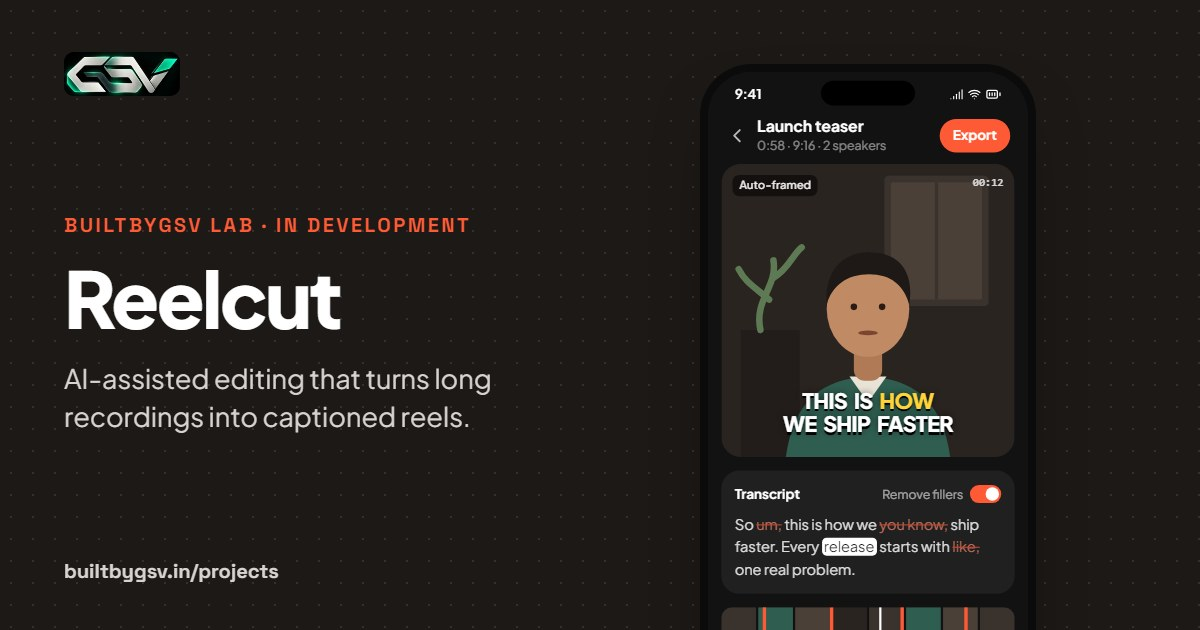
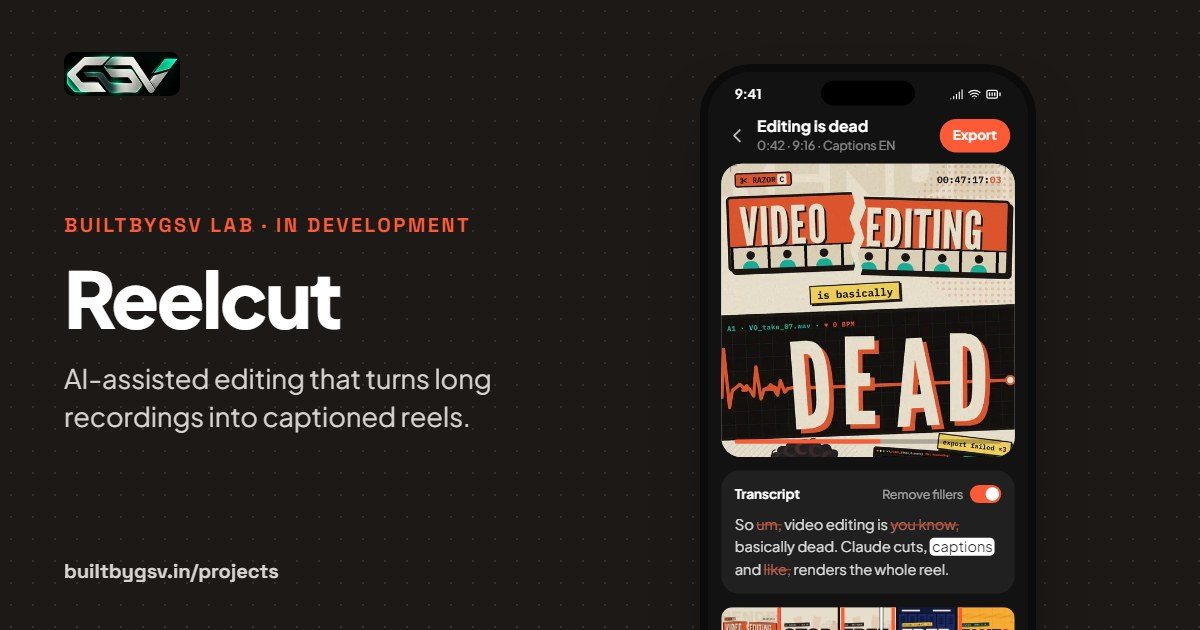
Make the tour cover a live wall of real work and show real reels in Reelcut
- Tour intro becomes a cover: three drifting columns of project screens and
  BuiltbyGSV reel covers, then the headline, real counts from the project
  data (products, client builds, live sites) and a scrolling stack line
- "How I can help" moves to a deep teal slide with a 2x2 tile grid so it no
  longer mirrors the intro
- Reelcut preview plays the studio's own "Editing is dead" reel with a
  matching transcript and a filmstrip of five reel covers
- Keep the header and intro text legible over the collage on short phones

Changed region(s): [[0.5858, 0.181, 0.8633, 0.7238], [0.6167, 0.8143, 0.8325, 0.9349], [0.5858, 0.9651, 0.8633, 1.0]]

diff --git a/src/components/TourPage.tsx b/src/components/TourPage.tsx
@@ -2,7 +2,7 @@ import { useCallback, useEffect, useRef, useState, type PointerEvent as ReactPoi
 import { AnimatePresence, motion, useAnimationFrame, useMotionValue, useReducedMotion } from 'motion/react';
 import { ArrowRight, ArrowUpRight, Linkedin, MessageCircle, Pause, Play, RotateCcw, UserPlus, X } from 'lucide-react';
 import { BrandLogo } from './BrandLogo';
-import { ConceptCover } from './visuals/ConceptScreens';
+import { CONCEPT_SCREENS, ConceptCover, REEL_COVERS } from './visuals/ConceptScreens';
 import { PROJECTS } from '../data/mockData';
 import { CAPABILITIES, WORK_SUMMARIES } from '../data/studio';
 import { projectMedia, projectTheme } from '../data/projectMedia';
@@ -26,8 +26,9 @@ const SLIDES: Slide[] = [
 
 const whatsapp = `https://wa.me/${brandEntity.phone.replace(/\D/g, '')}?text=${encodeURIComponent('Hi Guru, we met at DevDay!')}`;
 const PAPER = '#F4F1EA';
-const slideBg = (slide: Slide) => slide.kind === 'project' ? projectTheme(slide.id).bg : slide.kind === 'contact' ? '#131921' : PAPER;
-const slideDark = (slide: Slide) => slide.kind === 'project' ? Boolean(projectTheme(slide.id).dark) : slide.kind === 'contact';
+const TEAL = '#0C6E5D';
+const slideBg = (slide: Slide) => slide.kind === 'project' ? projectTheme(slide.id).bg : slide.kind === 'contact' ? '#131921' : slide.kind === 'services' ? TEAL : PAPER;
+const slideDark = (slide: Slide) => slide.kind === 'project' ? Boolean(projectTheme(slide.id).dark) : slide.kind === 'contact' || slide.kind === 'services';
 
 const item = (delay: number) => ({
   initial: { opacity: 0, y: 18 },
@@ -110,7 +111,7 @@ export function TourPage() {
         onPointerDown={down} onPointerUp={up} onPointerCancel={() => { press.current = null; setPaused(false); }}
         onContextMenu={(event) => event.preventDefault()}>
 
-        <div className="absolute inset-x-0 top-0 z-30 px-3 pt-[max(0.75rem,env(safe-area-inset-top))]">
+        <div className={`absolute inset-x-0 top-0 z-30 px-3 pt-[max(0.75rem,env(safe-area-inset-top))] transition-[padding] ${slide.kind === 'intro' ? 'bg-gradient-to-b from-[#F4F1EA] from-70% to-transparent pb-5' : ''}`}>
           <div className="flex gap-1">
             {SLIDES.map((_, i) => (
               <span key={i} className={`relative h-[3px] flex-1 overflow-hidden rounded-full ${dark ? 'bg-white/25' : 'bg-black/15'}`}>
@@ -120,7 +121,7 @@ export function TourPage() {
             ))}
           </div>
           <div className="mt-3 flex items-center justify-between">
-            <BrandLogo nameClassName={dark ? 'text-xs !text-white' : 'text-xs'} />
+            <BrandLogo nameClassName={slide.kind === 'services' ? 'text-xs !text-white [&_span]:!text-[#F5C748]' : dark ? 'text-xs !text-white' : 'text-xs'} />
             <div className="flex items-center gap-1">
               <span className={`mr-1 font-mono text-[11px] font-bold ${dark ? 'text-white/60' : 'text-[#64748B]'}`}>{paused && !last ? 'Paused' : `${String(index + 1).padStart(2, '0')}/${SLIDES.length}`}</span>
               <button type="button" onClick={() => setPaused((value) => !value)} aria-label={paused ? 'Play' : 'Pause'}
@@ -157,33 +158,79 @@ function close() {
   else window.location.href = '/devday';
 }
 
+type CollageTile = { id: string; src?: string };
+const COLLAGE: CollageTile[] = PROJECTS.flatMap((project): CollageTile[] => {
+  if (CONCEPT_SCREENS[project.id]) return [{ id: project.id }];
+  const media = projectMedia[project.id];
+  const src = media?.thumb ?? media?.hero;
+  return src ? [{ id: project.id, src }] : [];
+}).flatMap((tile, i) => (REEL_COVERS[i] ? [tile, { id: 'reelcut-ai-video-editor', src: REEL_COVERS[i] }] : [tile]));
+const COLUMNS = [0, 1, 2].map((column) => COLLAGE.filter((_, i) => i % 3 === column));
+const STATS = [
+  { value: PROJECTS.length, label: 'products built' },
+  { value: PROJECTS.filter((project) => project.detailData?.engagement === 'Client Work').length, label: 'client builds' },
+  { value: PROJECTS.filter((project) => project.detailData?.liveUrl).length, label: 'live right now' },
+];
+const STACK = ['React', 'TypeScript', 'Supabase', 'PostgreSQL', 'Three.js', 'MediaPipe', 'Python', 'FFmpeg', 'Whisper', 'Capacitor', 'Tailwind CSS', 'Web Workers'];
+
+function CollageColumn({ tiles, duration, reverse }: { tiles: CollageTile[]; duration: number; reverse?: boolean }) {
+  return (
+    <div className="flex-1 overflow-hidden">
+      <div className={`collage-col flex flex-col gap-3 ${reverse ? 'collage-reverse' : ''}`} style={{ animationDuration: `${duration}s` }}>
+        {[...tiles, ...tiles].map((tile, i) => {
+          const theme = projectTheme(tile.id);
+          return (
+            <div key={`${tile.id}-${i}`} className={`relative overflow-hidden rounded-2xl ${i % 2 ? 'aspect-square' : 'aspect-[4/5]'}`} style={{ backgroundColor: theme.bg }}>
+              {tile.src
+                ? <img src={tile.src} alt="" className="h-full w-full object-cover object-top" draggable={false} />
+                : <ConceptCover projectId={tile.id} peek={0.5} className="h-full w-full" />}
+            </div>
+          );
+        })}
+      </div>
+    </div>
+  );
+}
+
 function IntroSlide() {
   return (
-    <div className="flex flex-1 flex-col text-[#131921]">
-      <motion.p {...item(0.05)} className="font-mono text-[11px] font-bold uppercase tracking-[0.18em] text-[#0F8B75]">BuiltbyGSV · Puducherry, India</motion.p>
-      <motion.h1 {...item(0.12)} className="mt-5 text-[2.6rem] font-extrabold leading-[1.04] tracking-tight [@media(max-height:700px)]:text-[2.2rem]">
-        I’m Guru.<br />I build{' '}
-        <span className="relative inline-block font-serif font-normal italic text-[#0F8B75]">
-          software
-          <DrawnUnderline className="-bottom-1.5 h-3.5" delay={0.6} />
-        </span>
-        <br />that ships.
-      </motion.h1>
-      <motion.p {...item(0.22)} className="mt-5 max-w-sm text-[15px] leading-7 text-[#475569]">
-        Founder of BuiltbyGSV. I design and engineer web platforms, business software and AI products, from the first sketch to production.
-      </motion.p>
-      <ol className="mt-auto border-t border-[#131921]/15">
-        {CAPABILITIES.map((capability, i) => (
-          <motion.li key={capability.id} {...item(0.32 + i * 0.07)} className="flex items-baseline gap-4 border-b border-[#131921]/15 py-3">
-            <span className="font-mono text-xs font-bold text-[#94A3B8]">0{i + 1}</span>
-            <span className="text-[17px] font-bold">{capability.title}</span>
-          </motion.li>
-        ))}
-      </ol>
-      <motion.p {...item(0.7)} className="mt-4 flex items-center justify-between text-xs font-semibold text-[#64748B]">
-        <span>{PROJECTS.length} projects inside</span>
-        <span className="flex items-center gap-1.5 text-[#131921]">Tap to start <ArrowRight className="h-3.5 w-3.5" /></span>
-      </motion.p>
+    <div className="relative flex flex-1 flex-col text-[#131921]">
+      <div aria-hidden="true" className="pointer-events-none absolute -inset-x-6 top-[calc(-1*(max(0.75rem,env(safe-area-inset-top))+4.5rem))] h-[64%] overflow-hidden [@media(max-height:700px)]:h-[54%] [mask-image:linear-gradient(transparent,#000_20%,#000_62%,transparent)]">
+        <div className="flex h-[130%] gap-3 px-3" style={{ transform: 'translateY(-8%) rotate(-7deg) scale(1.15)' }}>
+          <CollageColumn tiles={COLUMNS[0]} duration={38} />
+          <CollageColumn tiles={COLUMNS[1]} duration={46} reverse />
+          <CollageColumn tiles={COLUMNS[2]} duration={34} />
+        </div>
+      </div>
+
+      <div className="relative -mx-6 mt-auto bg-gradient-to-t from-[#F4F1EA] from-[82%] to-transparent px-6 pt-10">
+        <motion.p {...item(0.1)} className="font-mono text-[11px] font-bold uppercase tracking-[0.18em] text-[#0F8B75]">BuiltbyGSV · Puducherry, India</motion.p>
+        <motion.h1 {...item(0.18)} className="mt-3 text-[2.5rem] font-extrabold leading-[1.04] tracking-tight [@media(max-height:700px)]:text-[2.1rem]">
+          I’m Guru. I build{' '}
+          <span className="relative inline-block font-serif font-normal italic text-[#0F8B75]">
+            software
+            <DrawnUnderline className="-bottom-1.5 h-3.5" delay={0.7} />
+          </span>{' '}
+          that ships.
+        </motion.h1>
+        <motion.dl {...item(0.3)} className="mt-5 grid grid-cols-3 divide-x divide-[#131921]/15 border-y border-[#131921]/15">
+          {STATS.map((stat) => (
+            <div key={stat.label} className="px-3 py-3 first:pl-0">
+              <dd className="text-[1.75rem] font-extrabold leading-none tracking-tight">{String(stat.value).padStart(2, '0')}</dd>
+              <dt className="mt-1 text-[11px] font-semibold text-[#64748B]">{stat.label}</dt>
+            </div>
+          ))}
+        </motion.dl>
+        <motion.div {...item(0.4)} className="marquee mt-3 overflow-hidden [mask-image:linear-gradient(90deg,transparent,#000_8%,#000_92%,transparent)]">
+          <p className="marquee-track flex gap-4 font-mono text-[11px] font-bold text-[#475569]" style={{ animationDuration: '28s' }}>
+            {[...STACK, ...STACK].map((name, i) => <span key={i} className="flex items-center gap-4">{name}<span className="text-[#0F8B75]">/</span></span>)}
+          </p>
+        </motion.div>
+        <motion.p {...item(0.55)} className="mt-4 flex items-center justify-between text-xs font-semibold text-[#64748B]">
+          <span>Founder, BuiltbyGSV</span>
+          <span className="flex items-center gap-1.5 text-[#131921]">Tap to start <ArrowRight className="h-3.5 w-3.5" /></span>
+        </motion.p>
+      </div>
     </div>
   );
 }
@@ -231,22 +278,26 @@ function ProjectSlide({ id, number, reduce }: { id: string; number: number; redu
 
 function ServicesSlide() {
   return (
-    <div className="flex flex-1 flex-col text-[#131921]">
-      <motion.p {...item(0.05)} className="font-mono text-[11px] font-bold uppercase tracking-[0.18em] text-[#0F8B75]">How I can help</motion.p>
+    <div className="flex flex-1 flex-col text-white">
+      <motion.p {...item(0.05)} className="font-mono text-[11px] font-bold uppercase tracking-[0.18em] text-[#F5C748]">How I can help</motion.p>
       <motion.h2 {...item(0.12)} className="mt-3 text-[2.3rem] font-extrabold leading-[1.05] tracking-tight [@media(max-height:700px)]:text-[1.9rem]">
-        From a rough idea<br /><span className="font-serif font-normal italic text-[#0F8B75]">to a shipped product.</span>
+        From a rough idea to a{' '}
+        <span className="relative inline-block font-serif font-normal italic">
+          shipped product.
+          <DrawnUnderline className="-bottom-1.5 h-3.5" delay={0.5} />
+        </span>
       </motion.h2>
-      <ol className="mt-auto border-t border-[#131921]/15">
+      <div className="mt-6 grid flex-1 grid-cols-2 grid-rows-2 gap-2.5">
         {CAPABILITIES.map((capability, i) => (
-          <motion.li key={capability.id} {...item(0.25 + i * 0.1)} className="border-b border-[#131921]/15 py-3.5">
-            <div className="flex items-baseline gap-4">
-              <span className="font-mono text-xs font-bold text-[#94A3B8]">0{i + 1}</span>
-              <span className="text-[17px] font-bold">{capability.title}</span>
-            </div>
-            <p className="mt-1 pl-9 font-mono text-[11px] text-[#475569]">{capability.flow.join(' → ')}</p>
-          </motion.li>
+          <motion.div key={capability.id} initial={{ opacity: 0, y: 20, rotate: i % 2 ? 1.5 : -1.5 }} animate={{ opacity: 1, y: 0, rotate: 0 }}
+            transition={{ duration: 0.5, ease: EASE.out, delay: 0.25 + i * 0.09 }}
+            className={`flex flex-col justify-between rounded-2xl p-3.5 ${i === 0 ? 'bg-[#F5C748] text-[#131921]' : 'bg-white/10'}`}>
+            <span className={`font-mono text-[11px] font-bold ${i === 0 ? 'text-[#131921]/60' : 'text-white/50'}`}>0{i + 1}</span>
+            <span className="mt-auto text-[17px] font-extrabold leading-tight">{capability.title}</span>
+            <span className={`mt-2 font-mono text-[10px] leading-4 ${i === 0 ? 'text-[#131921]/70' : 'text-white/70'}`}>{capability.flow.join(' → ')}</span>
+          </motion.div>
         ))}
-      </ol>
+      </div>
     </div>
   );
 }

diff --git a/src/components/visuals/ConceptScreens.tsx b/src/components/visuals/ConceptScreens.tsx
@@ -3,6 +3,11 @@ import { motion, useReducedMotion } from 'motion/react';
 import {
   BatteryFull, Bell, BookOpen, CalendarDays, Check, ChevronLeft, Home, Scissors, Signal, User, Wallet, Wifi,
 } from 'lucide-react';
+import editingIsDead from '../../assets/reels/editing-is-dead.webp';
+import stopChatgptCode from '../../assets/reels/stop-chatgpt-code.webp';
+import claudeCredits from '../../assets/reels/claude-credits.webp';
+import studentFreebies from '../../assets/reels/student-freebies.webp';
+import aiLieDetector from '../../assets/reels/ai-lie-detector.webp';
 
 /**
  * Phone-screen previews for builds that have no captured screens yet. Each screen is
@@ -72,45 +77,21 @@ function useTicker(count: number, ms: number) {
 
 /* ------------------------------------------------------------------ Reelcut */
 
-const CAPTION_LINES = [['THIS', 'IS', 'HOW'], ['WE', 'SHIP', 'FASTER']];
-const CAPTION_WORDS = CAPTION_LINES.flat();
+/** Real BuiltbyGSV reel covers, produced with the studio's own video pipeline. */
+export const REEL_COVERS = [editingIsDead, stopChatgptCode, claudeCredits, studentFreebies, aiLieDetector];
+
 type Word = { text: string; cut?: boolean };
 const TRANSCRIPT: Word[] = [
-  { text: 'So' }, { text: 'um,', cut: true }, { text: 'this' }, { text: 'is' }, { text: 'how' }, { text: 'we' },
-  { text: 'you know,', cut: true }, { text: 'ship' }, { text: 'faster.' }, { text: 'Every' }, { text: 'release' },
-  { text: 'starts' }, { text: 'with' }, { text: 'like,', cut: true }, { text: 'one' }, { text: 'real' }, { text: 'problem.' },
+  { text: 'So' }, { text: 'um,', cut: true }, { text: 'video' }, { text: 'editing' }, { text: 'is' },
+  { text: 'you know,', cut: true }, { text: 'basically' }, { text: 'dead.' }, { text: 'Claude' }, { text: 'cuts,' },
+  { text: 'captions' }, { text: 'and' }, { text: 'like,', cut: true }, { text: 'renders' }, { text: 'the' }, { text: 'whole' }, { text: 'reel.' },
 ];
 const SPOKEN = TRANSCRIPT.map((word, index) => ({ ...word, index })).filter((word) => !word.cut);
-const CUTS = [14, 37, 61, 83];
+const CUTS = [19, 41, 58, 81];
 
-function Speaker() {
-  const reduce = useReducedMotion();
-  return (
-    <svg viewBox="0 0 270 300" className="absolute inset-0 h-full w-full" preserveAspectRatio="xMidYMid slice">
-      <rect width="270" height="300" fill="#2A2420" />
-      <rect x="150" y="26" width="96" height="120" rx="4" fill="#3A322C" />
-      <rect x="156" y="32" width="84" height="108" rx="2" fill="#4B4038" />
-      <line x1="198" y1="32" x2="198" y2="140" stroke="#3A322C" strokeWidth="3" />
-      <rect x="18" y="168" width="54" height="132" fill="#221D1A" />
-      <path d="M36 168 C 30 140, 52 128, 48 104 M48 120 C 62 112, 66 98, 74 92 M44 140 C 30 128, 22 124, 16 112" stroke="#5E7A55" strokeWidth="6" strokeLinecap="round" fill="none" />
-      <motion.g animate={reduce ? undefined : { y: [0, -1.5, 0] }} transition={{ duration: 3.2, repeat: Infinity, ease: 'easeInOut' }}>
-        <path d="M58 300 C 62 236, 92 214, 135 212 C 178 214, 208 236, 212 300 Z" fill="#2F5D50" />
-        <path d="M118 212 L135 236 L152 212 Z" fill="#E9E2D6" />
-        <rect x="122" y="182" width="26" height="34" rx="10" fill="#B07A57" />
-        <ellipse cx="135" cy="150" rx="38" ry="44" fill="#C08A65" />
-        <path d="M97 146 C 94 108, 120 96, 138 98 C 162 98, 178 114, 173 146 C 168 128, 156 118, 136 118 C 116 118, 102 128, 97 146 Z" fill="#1E1916" />
-        <motion.ellipse cx="135" cy="172" rx="9" fill="#7A4632" animate={reduce ? { ry: 2.5 } : { ry: [2, 5, 2.5, 4.5, 2] }} transition={{ duration: 1.1, repeat: Infinity }} />
-        <circle cx="122" cy="148" r="3" fill="#2A1C14" />
-        <circle cx="148" cy="148" r="3" fill="#2A1C14" />
-      </motion.g>
-    </svg>
-  );
-}
-
-/** Reelcut: transcript-first video editing on a phone. */
+/** Reelcut: transcript-first video editing on a phone, shown on a real reel. */
 export function ReelcutScreen() {
   const spoken = useTicker(SPOKEN.length, 520);
-  const captionIndex = useTicker(CAPTION_WORDS.length, 520);
   const reduce = useReducedMotion();
   const activeWord = SPOKEN[spoken].index;
   return (
@@ -118,25 +99,18 @@ export function ReelcutScreen() {
       <div className="flex shrink-0 items-center gap-2 px-4 pb-2 pt-1">
         <ChevronLeft className="h-5 w-5 text-white/70" />
         <div className="min-w-0 flex-1">
-          <p className="truncate text-[14px] font-bold leading-tight">Launch teaser</p>
-          <p className="text-[11px] text-white/50">0:58 · 9:16 · 2 speakers</p>
+          <p className="truncate text-[14px] font-bold leading-tight">Editing is dead</p>
+          <p className="text-[11px] text-white/50">0:42 · 9:16 · Captions EN</p>
         </div>
         <span className="rounded-full bg-[#FF5A36] px-3 py-1.5 text-[12px] font-bold">Export</span>
       </div>
 
-      <div className="relative mx-3 h-[262px] shrink-0 overflow-hidden rounded-[18px]">
-        <Speaker />
-        <span className="absolute left-2.5 top-2.5 rounded-md bg-black/55 px-1.5 py-0.5 text-[10px] font-semibold text-white/90">Auto-framed</span>
-        <span className="absolute right-2.5 top-2.5 font-mono text-[10px] font-semibold text-white/80">00:12</span>
-        <div className="absolute inset-x-0 bottom-5 flex flex-col items-center gap-0.5">
-          {CAPTION_LINES.map((line, lineIndex) => (
-            <p key={lineIndex} className="flex gap-1.5 text-[19px] font-black leading-none tracking-tight [text-shadow:0_2px_0_#000,0_0_6px_rgba(0,0,0,.6)]">
-              {line.map((word) => {
-                const on = CAPTION_WORDS[captionIndex] === word;
-                return <span key={word} className={on ? 'text-[#FFD43B]' : 'text-white'}>{word}</span>;
-              })}
-            </p>
-          ))}
+      <div className="relative mx-3 h-[262px] shrink-0 overflow-hidden rounded-[18px] bg-[#E9E1D2]">
+        <motion.img src={editingIsDead} alt="" draggable={false} className="h-full w-full object-cover object-[50%_18%]"
+          animate={reduce ? undefined : { scale: [1, 1.05] }} transition={{ duration: 9, repeat: Infinity, repeatType: 'reverse', ease: 'easeInOut' }} />
+        <div className="absolute inset-x-3 bottom-3 h-1 overflow-hidden rounded-full bg-black/25">
+          <motion.div className="h-full bg-[#FF5A36]" animate={reduce ? { width: '30%' } : { width: ['0%', '100%'] }}
+            transition={reduce ? { duration: 0 } : { duration: 8, repeat: Infinity, ease: 'linear' }} />
         </div>
       </div>
 
@@ -159,19 +133,19 @@ export function ReelcutScreen() {
       </div>
 
       <div className="mx-3 mt-3 shrink-0">
-        <div className="relative h-10 overflow-hidden rounded-[10px]">
+        <div className="relative h-12 overflow-hidden rounded-[10px]">
           <div className="flex h-full gap-[2px]">
-            {['#3A322C', '#2F5D50', '#4B4038', '#2A2420', '#3A322C', '#2F5D50', '#4B4038', '#3A322C'].map((color, index) => (
-              <span key={index} className="h-full flex-1" style={{ backgroundColor: color }} />
+            {REEL_COVERS.map((src) => (
+              <img key={src} src={src} alt="" draggable={false} className="h-full min-w-0 flex-1 object-cover object-top" />
             ))}
           </div>
           {CUTS.map((left) => <span key={left} className="absolute inset-y-0 w-[3px] bg-[#FF5A36]" style={{ left: `${left}%` }} />)}
-          <motion.span className="absolute inset-y-0 w-[2px] bg-white" animate={reduce ? { left: '40%' } : { left: ['0%', '99%'] }}
+          <motion.span className="absolute inset-y-0 w-[2px] bg-white shadow-[0_0_0_1px_rgba(0,0,0,.4)]" animate={reduce ? { left: '40%' } : { left: ['0%', '99%'] }}
             transition={reduce ? { duration: 0 } : { duration: 8, repeat: Infinity, ease: 'linear' }} />
         </div>
         <div className="mt-2.5 flex gap-1.5 text-[11px] font-semibold">
           <span className="flex items-center gap-1 rounded-full bg-[#FF5A36]/15 px-2 py-1 text-[#FF8A70]"><Scissors className="h-3 w-3" /> 3 fillers · −42s silence</span>
-          <span className="rounded-full bg-white/10 px-2 py-1 text-white/70">Captions EN</span>
+          <span className="rounded-full bg-white/10 px-2 py-1 text-white/70">5 reels</span>
         </div>
       </div>
     </Phone>

diff --git a/src/index.css b/src/index.css
@@ -168,6 +168,13 @@
 }
 .marquee:hover .marquee-track, .marquee:focus-within .marquee-track { animation-play-state: paused; }
 
+/* Tour cover collage: each column holds its tiles twice and scrolls by half. */
+@keyframes collage-up {
+  to { transform: translateY(calc(-50% - 0.375rem)); }
+}
+.collage-col { animation: collage-up 40s linear infinite; }
+.collage-reverse { animation-direction: reverse; }
+
 /* A slow sheen across gradient text. */
 @keyframes sheen {
   to { background-position: 200% center; }
